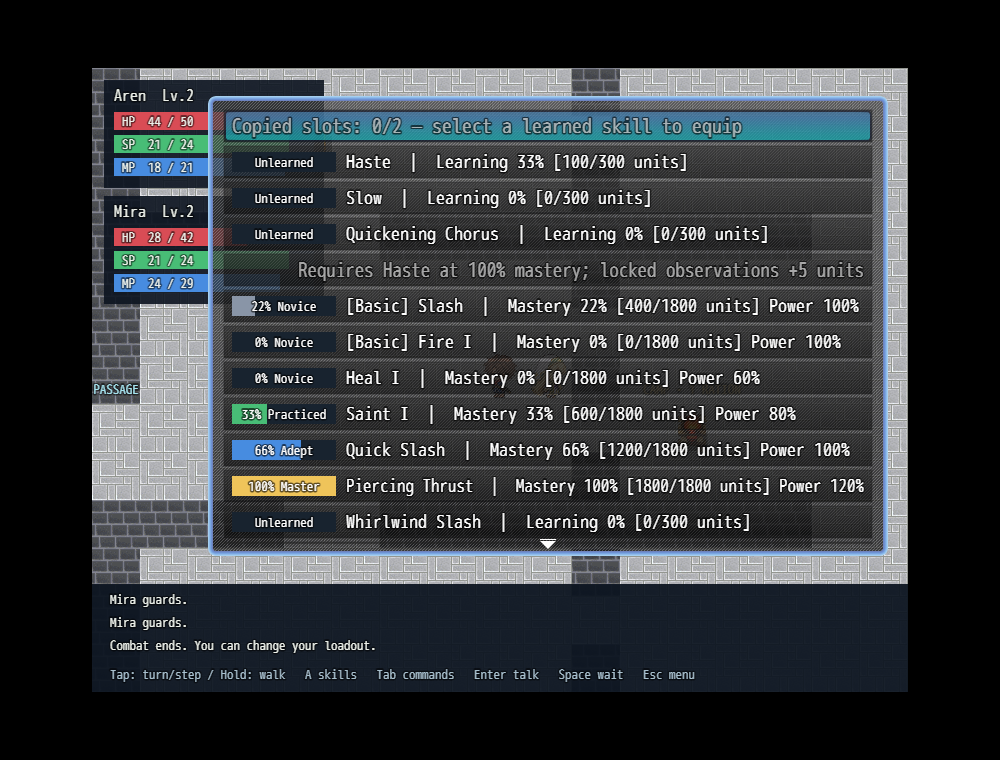
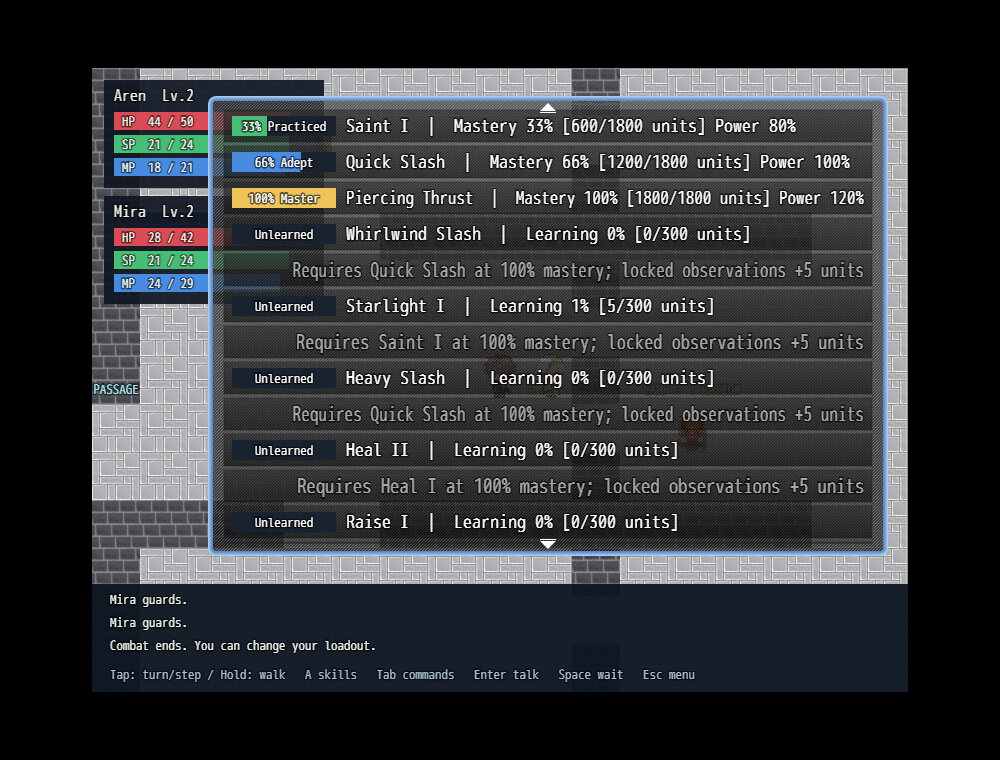
Add journal page navigation and replace Brace with Guard

Changed region(s): [[0.217, 0.3934, 0.868, 0.6961], [0.217, 0.1211, 0.868, 0.3632]]

diff --git a/src/js/plugins/FirstJourneyRules.js b/src/js/plugins/FirstJourneyRules.js
@@ -28,7 +28,7 @@
         mage: [{ level: 1, skill: "spark" }],
         supporter: [{ level: 1, skill: "spark" }, { level: 1, skill: "haste" }, { level: 1, skill: "slow" }, { level: 3, skill: "quickening" }],
         priestess: [{ level: 1, skill: "mend" }, { level: 1, skill: "light" }, { level: 2, skill: "burst" }, { level: 3, skill: "greaterMend" }, { level: 5, skill: "revive" }],
-        fighter: [{ level: 1, skill: "jab" }, { level: 2, skill: "brace" }, { level: 2, skill: "thrust" }, { level: 3, skill: "sweep" }, { level: 3, skill: "whirlwind" }]
+        fighter: [{ level: 1, skill: "jab" }, { level: 2, skill: "thrust" }, { level: 3, skill: "sweep" }, { level: 3, skill: "whirlwind" }]
     };
     function extendJobs() {
         for (const [id, skill] of Object.entries(skills)) {
@@ -348,7 +348,7 @@
                 if (jobSkills(unit).includes("burst") && blast.length > 1 && blast.every(hit => faction(hit) === "enemy") && use(state, unit, "burst", target)) return;
                 if (use(state, unit, "light", target)) return;
             }
-            if (mode === "Guard" && state.combat) { unit.guard = 1; return; }
+            if (mode === "Guard" && state.combat) { unit.guard = 3 + (unit.level - 1) * 2; return; }
         } else if (target && use(state, unit, "cut", target)) return;
         if (distance(unit, leader) > 1) approach(state, unit, leader);
     }
@@ -384,7 +384,6 @@
         }
         if (known.includes("sweep") && enemy.step % 3 === 0) id = "sweep";
         else if (known.includes("whirlwind") && enemy.step % 5 === 0) id = "whirlwind";
-        else if (known.includes("brace") && enemy.step % 4 === 0) id = "brace";
         else if (known.includes("thrust") && enemy.step % 2 === 0) id = "thrust";
         if (known.includes("sweep") && enemy.step % 3 === 2) log(state, enemy.name + " raises his club for his next attack.");
         if (!use(state, enemy, id, target)) approach(state, enemy, target);
@@ -498,7 +497,7 @@
         } else if (action.type === "move") executeMove(state, action.dx, action.dy);
         else if (action.type === "skill") {
             if (!use(state, unit, action.id, action.target)) log(state, unit.name + " cannot execute " + skills[action.id].name + ".");
-        } else if (action.type === "guard") { unit.guard = 1; log(state, unit.name + " guards."); }
+        } else if (action.type === "guard") { unit.guard = 3 + (unit.level - 1) * 2; log(state, unit.name + " guards."); }
         else if (action.type === "potion" && validAction(state, unit, action)) {
             const target = state[action.targetId], pool = action.pool;
             state.inventory[pool]--; target[pool] = Math.min(maxStats(target)[pool], target[pool] + (pool === "hp" ? 25 : 12));

diff --git a/src/js/plugins/FirstJourney.js b/src/js/plugins/FirstJourney.js
@@ -70,6 +70,14 @@
         itemHeight() { return 36; }
         resetFontSettings() { super.resetFontSettings(); this.contents.fontSize = 20; }
         makeCommandList() { for (let i = 0; i < this._entries.length; i++) this.addCommand(this._entries[i].label, String(i), this._entries[i].enabled !== false); }
+        cursorRight(wrap) {
+            if (this._journeyJournal) this.smoothSelect(Math.min(this.maxItems() - 1, this.index() + this.maxPageItems()));
+            else super.cursorRight(wrap);
+        }
+        cursorLeft(wrap) {
+            if (this._journeyJournal) this.smoothSelect(Math.max(0, this.index() - this.maxPageItems()));
+            else super.cursorLeft(wrap);
+        }
         drawItem(index) {
             const entry = this._entries[index];
             if (!entry.journalId) return super.drawItem(index);
@@ -202,6 +210,7 @@
             if (skill.prerequisite && !R.ready(s, id)) entries.push({ label: "       Requires " + R.skills[skill.prerequisite].name + " at 100% mastery; locked observations +5 units", enabled: false });
         }
         this.choices(entries, null, 680);
+        this._journeyChoices._journeyJournal = true;
     };
     Scene_Map.prototype.behavior = function() {
         const s = state();

diff --git a/docs/SKILL_CATALOGUE.md b/docs/SKILL_CATALOGUE.md
@@ -1,6 +1,6 @@
 # Skill catalogue and progression
 
-`src/js/plugins/Skills.json` is the authoritative 78-skill overworld catalogue. It loads through RPG Maker’s database loader and directly through CommonJS for rules tests. Run `node tools/build-test-skills.cjs` to regenerate the editor-facing `src/data/Skills.json`; that export is not the overworld rules source.
+`src/js/plugins/Skills.json` is the authoritative 77-skill overworld catalogue. It loads through RPG Maker’s database loader and directly through CommonJS for rules tests. Run `node tools/build-test-skills.cjs` to regenerate the editor-facing `src/data/Skills.json`; that export is not the overworld rules source.
 
 The original database is preserved unchanged at `Addons/FirstJourneyBackup/SkillArchive/Skills-original-2026-09-19.json`. Original numeric IDs supply names, elements, icons and animation references; damage and costs are retuned for the prototype. Source effects involving status ailments, drains, escape, MP recovery, reflection, and unsupported stat modifiers were not imported as playable mechanics. Weapon attacks that originally inflicted status ailments now deal direct damage only. Empty/reserved rows are omitted from the runtime catalogue. No original formula is evaluated in overworld combat.
 
@@ -35,7 +35,7 @@ Combat begins at round 1. The label advances after a resolved round when combat 
 
 Targeted and directional area skills affect both factions. Only self-centered areas retain enemy-only damage and ally-only healing/buffs. Healing Circle and Quickening Chorus include the caster. Mira's automatic targeted blasts avoid friendly fire.
 
-Four new self-centered spells use the existing elemental/healing prerequisites: Flame Nova, Frost Nova, Storm Nova, and Healing Circle. Quickening Chorus is now self-centered too. Guard absorbs 1 damage from the next hit; Brace's novice copied reduction is 2 and increases with proficiency and level.
+Four new self-centered spells use the existing elemental/healing prerequisites: Flame Nova, Frost Nova, Storm Nova, and Healing Circle. Quickening Chorus is now self-centered too. Guard replaces Brace: it absorbs 3 damage plus 2 per level above level 1 from the next hit, with no resource or skill-slot cost. It is an action, not a learnable skill.
 
 ## Catalogue
 
@@ -52,7 +52,6 @@ Four new self-centered spells use the existing elemental/healing prerequisites: 
 | thrust | Piercing Thrust | 1 | 197 | — | 3 SP + 1 MP | line | 8 |
 | whirlwind | Whirlwind Slash | 2 | 201 | Quick Slash | 4 SP + 2 MP | around | 16 |
 | burst | Starlight I | 1 | 144 | Saint I | 5 MP + 1 SP | compact | 6 |
-| brace | Brace | 1 | 2 | — | 2 SP | single | 3 |
 | sweep | Heavy Slash | 2 | 216 | Quick Slash | 4 SP + 1 MP | arc | 16 |
 | greaterMend | Heal II | 2 | 53 | Heal I | 5 MP | single | 28 |
 | revive | Raise I | 2 | 64 | Heal I | 8 MP | single | 20 |

diff --git a/README.md b/README.md
@@ -52,14 +52,14 @@ cancellation and reopening, and stores the choice in saves.
 
 Self-centered spells now include Flame Nova, Frost Nova, Storm Nova, and
 Healing Circle. Quickening Chorus also surrounds its caster. Guard reduces the
-next hit by 1 damage; Brace provides greater protection, even as a novice copy.
+next hit by 3 damage plus 2 per level above level 1, inheriting the former Brace effect. Guard costs no resources and uses no skill slot.
 
 ## Skill data and Stats
 
 The field menu’s **Stats** item opens lifetime combat rounds and exploration
 steps. The skill journal displays tier-coloured proficiency bars.
 
-`src/js/plugins/Skills.json` contains the current 78-skill catalogue;
+`src/js/plugins/Skills.json` contains the current 77-skill catalogue;
 `src/data/Skills.json` is its generated RPG Maker editor export. The original
 database is archived in `Addons/FirstJourneyBackup/SkillArchive/`. See
 [skill catalogue and tuning](docs/SKILL_CATALOGUE.md) for sources, prerequisites,
@@ -195,3 +195,5 @@ pre-commit cutoff is recorded. A final reply written after a commit is captured
 at the next refresh. The agent must review the staged log for sensitive material
 and ensure it is updated before every commit, including when an alternative
 Git command is necessary. The helper neither pushes nor grants push approval.
+
+Skill Journal: Up/Down moves one entry; Left/Right jumps one visible page. Hold any direction to repeat navigation; page jumps stop at the first or last entry.

diff --git a/docs/GAME_DESIGN.md b/docs/GAME_DESIGN.md
@@ -73,7 +73,7 @@ members. The prototype implements Priestess, Fighter, and Supporter tables:
 | Job | Level 1 | Later techniques |
 | --- | --- | --- |
 | Priestess | Heal I, Saint I | Starlight I at 2; Heal II at 3; Revive at 5 |
-| Fighter | Quick Slash | Brace and Piercing Thrust at 2; Heavy Slash and Whirlwind at 3 |
+| Fighter | Quick Slash | Piercing Thrust at 2; Heavy Slash and Whirlwind at 3 |
 | Supporter | Fire I, Haste, Slow | Quickening Chorus at 3 |
 
 Mira remains a Priestess. A goblin chanter in the shrine is a Supporter, providing
@@ -221,7 +221,7 @@ and follower steps do not add exploration steps.
 
 Self-centered spells now include Flame Nova, Frost Nova, Storm Nova, and
 Healing Circle. Quickening Chorus also surrounds its caster. Guard reduces the
-next hit by 1 damage; Brace provides greater protection, even as a novice copy.
+next hit by 3 damage plus 2 per level above level 1, inheriting the former Brace effect. Guard costs no resources and uses no skill slot.
 
 ## Sequential turns, Speed, and companion commands
 
